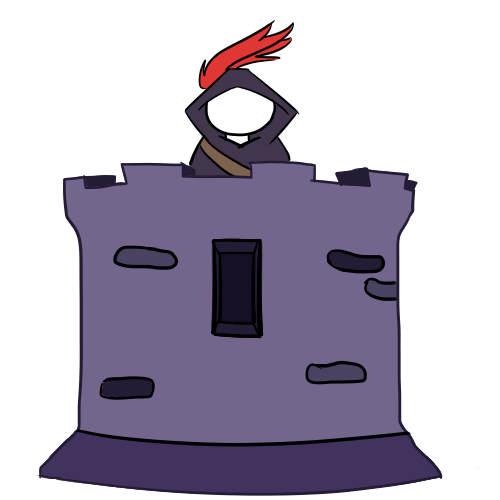
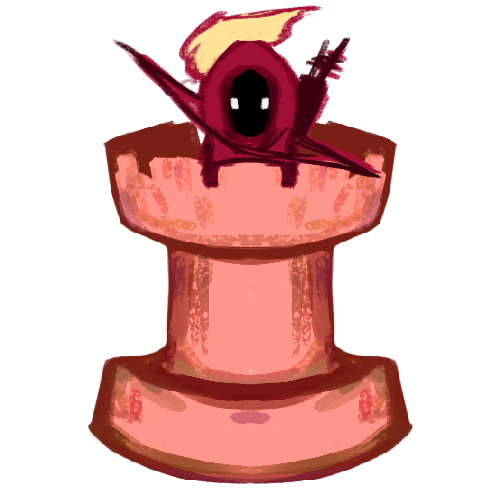
added color, spawn sprites and change mine sprite

diff --git a/src/games/necrowar/unit.ts b/src/games/necrowar/unit.ts
@@ -8,7 +8,9 @@ import { GameObject } from "./game-object";
 import { ITileState, IUnitState } from "./state-interfaces";
 
 // <<-- Creer-Merge: imports -->>
-import { ease } from "src/utils";
+import { ease, isObject, pixiFade , updown } from "src/utils";
+import { GameBar } from "src/viseur/game";
+import { Tile } from "./tile";
 // <<-- /Creer-Merge: imports -->>
 
 // <<-- Creer-Merge: should-render -->>
@@ -51,16 +53,17 @@ export class Unit extends makeRenderable(GameObject, SHOULD_RENDER) {
     public readonly wraith: PIXI.Sprite | undefined;
     /** zombie */
     public readonly zombie: PIXI.Sprite | undefined;
-
+    /** jobSprite for recoloring */
+    public readonly jobSprite: PIXI.Sprite;
     // <<-- Creer-Merge: variables -->>
     /** The id of the owner of this unit, for recoloring */
     public ownerID: string;
 
-    // /** The tile state of the tile we are attacking, if we are. */
-    // public attackingTile?: ITileState;
+    /** The tile state of the tile we are attacking, if we are. */
+    public attackingTile?: ITileState;
 
-    // /** Our health bar */
-    // public readonly healthBar: GameBar;
+    /** Our health bar */
+    public readonly healthBar: GameBar;
     // <<-- /Creer-Merge: variables -->>
 
     /**
@@ -76,35 +79,50 @@ export class Unit extends makeRenderable(GameObject, SHOULD_RENDER) {
         // <<-- Creer-Merge: constructor -->>
         this.ownerID = state.owner.id;
         this.container.scale.set(OVER_SCALE + 1, OVER_SCALE + 1);
-        this.container.position.x -= OVER_SCALE / 2;
         this.container.setParent(this.game.layers.game);
 
+        this.jobSprite = new PIXI.Sprite();
         if (state.job.title === "abomination") {
+
             this.abomination = this.addSprite.abomination();
+            this.jobSprite = this.abomination;
         }
         else if (state.job.title === "hound") {
             this.dog = this.addSprite.dog();
+            this.jobSprite = this.dog;
         }
         else if (state.job.title === "ghoul") {
-            this.ghoul = this.addSprite.ghould();
+            this.ghoul = this.addSprite.ghoul();
+            this.jobSprite = this.ghoul;
         }
         else if (state.job.title === "zombie") {
             this.zombie = this.addSprite.zombie();
+            this.jobSprite = this.zombie;
         }
         else if (state.job.title === "wraith") {
-            this.abomination = this.addSprite.wraith();
+            this.wraith = this.addSprite.wraith();
+            this.jobSprite = this.wraith;
         }
         else if (state.job.title === "horseman") {
             this.horseman = this.addSprite.horseman();
+            this.jobSprite = this.horseman;
         }
         else if (state.job.title === "worker") {
             this.worker = this.addSprite.necromancer();
+            this.jobSprite = this.worker;
         }
 
         if (state.owner.id === this.game.players[0].id) {
             this.container.scale.x *= -1;
-            this.container.position.x += 1;
         }
+
+        const barContainer = new PIXI.Container();
+        barContainer.setParent(this.container);
+        barContainer.position.y -= 0.25;
+
+        this.healthBar = new GameBar(barContainer, {
+            max: state.job.health,
+        });
         // <<-- /Creer-Merge: constructor -->>
     }
 
@@ -136,9 +154,21 @@ export class Unit extends makeRenderable(GameObject, SHOULD_RENDER) {
         }
         this.container.visible = true;
         this.container.position.set(
-            ease(current.tile.x, next.tile.x, dt),
+            ease(current.tile.x, next.tile.x, dt) + Number(this.ownerID === this.game.players[0].id),
             ease(current.tile.y, next.tile.y, dt),
-        );
+          );
+
+        this.healthBar.update(ease(current.health, next.health, dt));
+        pixiFade(this.container, dt, current.health, next.health);
+
+        if (this.attackingTile) {
+            const d = updown(dt);
+            const dx = (this.attackingTile.x - current.tile.x) / 2;
+            const dy = (this.attackingTile.y - current.tile.y) / 2;
+
+            this.container.x += dx * d;
+            this.container.y += dy * d;
+        }
         // <<-- /Creer-Merge: render -->>
     }
 
@@ -150,7 +180,9 @@ export class Unit extends makeRenderable(GameObject, SHOULD_RENDER) {
         super.recolor();
 
         // <<-- Creer-Merge: recolor -->>
-        // replace with code to recolor sprites based on player color
+        const color = this.game.getPlayersColor(this.ownerID).rgbNumber();
+        this.jobSprite.tint = color;
+        this.healthBar.recolor(color);
         // <<-- /Creer-Merge: recolor -->>
     }
 
@@ -186,7 +218,20 @@ export class Unit extends makeRenderable(GameObject, SHOULD_RENDER) {
         super.stateUpdated(current, next, delta, nextDelta);
 
         // <<-- Creer-Merge: state-updated -->>
-        // update the Unit based off its states
+        this.attackingTile = undefined;
+        if (nextDelta.type === "ran" && nextDelta.data.run.caller.id === this.id) {
+            if (nextDelta.data.returned) {
+                const { run } = nextDelta.data;
+                const tile = this.game.gameObjects[String(
+                    isObject(run.args.tile) && run.args.tile.id,
+                )];
+
+                switch (run.functionName) {
+                    case "attack":
+                        this.attackingTile = tile && (tile as Tile).getNextMostState();
+                }
+            }
+        }
         // <<-- /Creer-Merge: state-updated -->>
     }
 

diff --git a/src/games/necrowar/tower.ts b/src/games/necrowar/tower.ts
@@ -8,12 +8,12 @@ import { GameObject } from "./game-object";
 import { ITileState, ITowerState } from "./state-interfaces";
 
 // <<-- Creer-Merge: imports -->>
-// any additional imports you want can be added here safely between Creer runs
+import { ease } from "src/utils";
 // <<-- /Creer-Merge: imports -->>
 
 // <<-- Creer-Merge: should-render -->>
 // Set this variable to `true`, if this class should render.
-const SHOULD_RENDER = undefined;
+const SHOULD_RENDER = true;
 // <<-- /Creer-Merge: should-render -->>
 
 /**
@@ -23,15 +23,22 @@ export class Tower extends makeRenderable(GameObject, SHOULD_RENDER) {
     // <<-- Creer-Merge: static-functions -->>
     // you can add static functions here
     // <<-- /Creer-Merge: static-functions -->>
-
     /** The current state of the Tower (dt = 0) */
     public current: ITowerState | undefined;
 
     /** The next state of the Tower (dt = 1) */
     public next: ITowerState | undefined;
-
     // <<-- Creer-Merge: variables -->>
-    // You can add additional member variables here
+    /** archer */
+    public readonly archer: PIXI.Sprite | undefined;
+    /** aoe */
+    public readonly aoe: PIXI.Sprite | undefined;
+    /** cleansing */
+    public readonly cleansing: PIXI.Sprite | undefined;
+    /** ballista */
+    public readonly ballista: PIXI.Sprite | undefined;
+    /** The id of the owner of this unit, for recoloring */
+    public ownerID: string;
     // <<-- /Creer-Merge: variables -->>
 
     /**
@@ -45,7 +52,22 @@ export class Tower extends makeRenderable(GameObject, SHOULD_RENDER) {
         super(state, viseur);
 
         // <<-- Creer-Merge: constructor -->>
-        // You can initialize your new Tower here.
+        this.ownerID = state.owner.id;
+        this.container.setParent(this.game.layers.game);
+
+        if (state.job.title === "archer") {
+            this.archer = this.addSprite.archerTower();
+        }
+        else if (state.job.title === "aoe") {
+            this.aoe = this.addSprite.aoe();
+        }
+        else if (state.job.title === "cleansing") {
+            this.cleansing = this.addSprite.cleansingTower();
+        }
+        else if (state.job.title === "ballista") {
+            this.ballista = this.addSprite.ballistaTower();
+        }
+
         // <<-- /Creer-Merge: constructor -->>
     }
 
@@ -70,7 +92,16 @@ export class Tower extends makeRenderable(GameObject, SHOULD_RENDER) {
         super.render(dt, current, next, delta, nextDelta);
 
         // <<-- Creer-Merge: render -->>
-        // render where the Tower is
+        if (!next.tile) {
+            this.container.visible = false;
+
+            return;
+        }
+        this.container.visible = true;
+        this.container.position.set(
+            ease(current.tile.x, next.tile.x, dt),
+            ease(current.tile.y, next.tile.y, dt),
+        );
         // <<-- /Creer-Merge: render -->>
     }
 

diff --git a/src/games/necrowar/tile.ts b/src/games/necrowar/tile.ts
@@ -36,8 +36,14 @@ export class Tile extends makeRenderable(GameObject, SHOULD_RENDER) {
     public readonly castle: PIXI.Sprite | undefined;
     /** grass */
     public readonly grass: PIXI.Sprite | undefined;
+    /** islandGoldMine */
+    public readonly islandGoldmine: PIXI.Sprite | undefined;
     /** goldmine */
     public readonly goldmine: PIXI.Sprite | undefined;
+    /** unitSpawn */
+    public readonly unitSpawn: PIXI.Sprite | undefined;
+    /** workerSpawn */
+    public readonly workerSpawn: PIXI.Sprite | undefined;
     /** path */
     public readonly path: PIXI.Sprite | undefined;
     /** river */
@@ -70,10 +76,19 @@ export class Tile extends makeRenderable(GameObject, SHOULD_RENDER) {
         this.unitContainer.position.copy(this.container.position);
 
         if (state.isCastle) {
+            this.castle = this.addSprite.path({container: this.container});
             this.castle = this.addSprite.castle({ container: this.unitContainer });
+            this.unitContainer.position.x -= .5;
+            this.unitContainer.position.y -= .7;
+            this.unitContainer.scale.x *= 2;
+            this.unitContainer.scale.y *= 2;
+
         }
         if (state.isIslandGoldMine) {
-            this.goldmine = this.addSprite.goldMine({ container: this.unitContainer});
+            this.islandGoldmine = this.addSprite.islandGoldmine({ container: this.unitContainer});
+        }
+        if (state.isGoldMine) {
+            this.goldmine = this.addSprite.islandGoldmine({ container: this.unitContainer });
         }
         if (state.isGrass) {
             this.grass = this.addSprite.grass();
@@ -81,8 +96,15 @@ export class Tile extends makeRenderable(GameObject, SHOULD_RENDER) {
         if (state.isPath) {
             this.path = this.addSprite.path();
         }
-        if (state.isRiver) {
+        else if (state.isRiver) {
             this.river = this.addSprite.water();
+        }
+        if (state.isUnitSpawn) {
+            this.unitSpawn = this.addSprite.grass();
+            this.unitSpawn = this.addSprite.unitSpawn();
+        }
+        if (state.isWorkerSpawn) {
+            this.workerSpawn = this.addSprite.workerSpawn();
         }
         // <<-- /Creer-Merge: constructor -->>
     }
@@ -108,6 +130,7 @@ export class Tile extends makeRenderable(GameObject, SHOULD_RENDER) {
         super.render(dt, current, next, delta, nextDelta);
 
         // <<-- Creer-Merge: render -->
+
         // <<-- /Creer-Merge: render -->>
     }
 

diff --git a/src/games/necrowar/resources/index.ts b/src/games/necrowar/resources/index.ts
@@ -5,12 +5,13 @@ export const GameResources = createResources("Necrowar", {
     // <<-- Creer-Merge: resources -->>
     test: load("test.png"),
     archerTower: load("archerTower.png"),
-    arrow: load("arrow.png"),
+    aoe: load("aoeTower.png"),
     ballistaArrow: load("ballistaArrow.png"),
-    ballistaTower: load("ballitsaTower.png"),
+    ballistaTower: load("ballistaTower.png"),
     castle: load("castle.png"),
     cleansingTower: load("cleansingTower.png"),
-    goldMine: load("goldMine.png"),
+    goldMine: load("goldmine1.png"),
+    islandGoldmine: load("goldmine.png"),
     grass: load("grass.png"),
     manaFish: load("manaFish.png"),
     path: load("path.png"),
@@ -18,13 +19,15 @@ export const GameResources = createResources("Necrowar", {
     water: load("water.png"),
     abomination: load("abomination.png"),
     dog: load("dog.png"),
-    ghould: load("ghoul.png"),
+    ghoul: load("ghoul.png"),
     zombie: load("zombie.png"),
     horde: load("horde.png"),
     horseman: load("horseman.png"),
     necromancer: load("necromancer.png"),
     skeleton: load("skeleton.png"),
     wraith: load("wraith.png"),
+    unitSpawn: load("spawn.png"),
+    workerSpawn: load("spawn1.png"),
 
    // <<-- /Creer-Merge: resources -->>
 });
